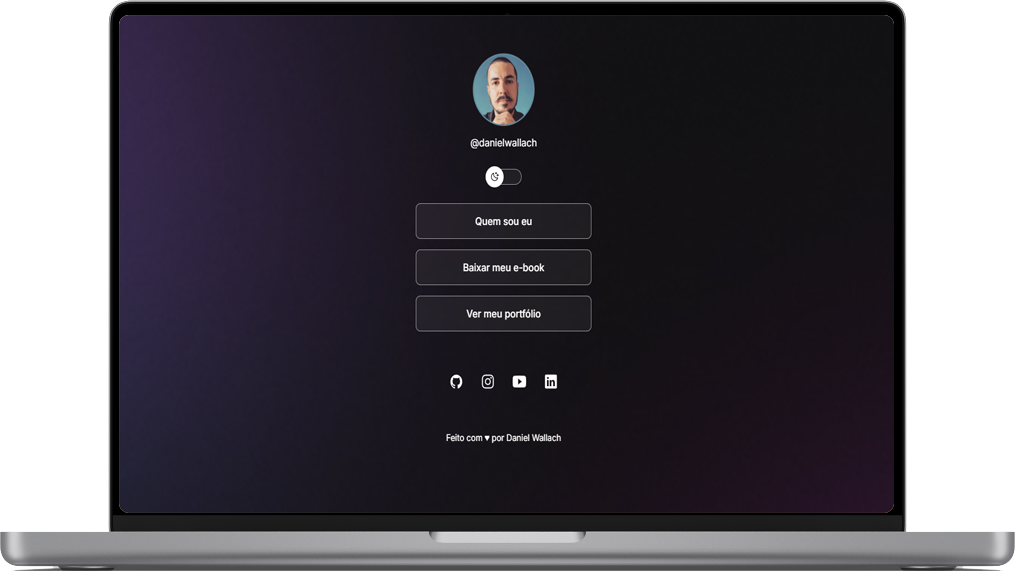
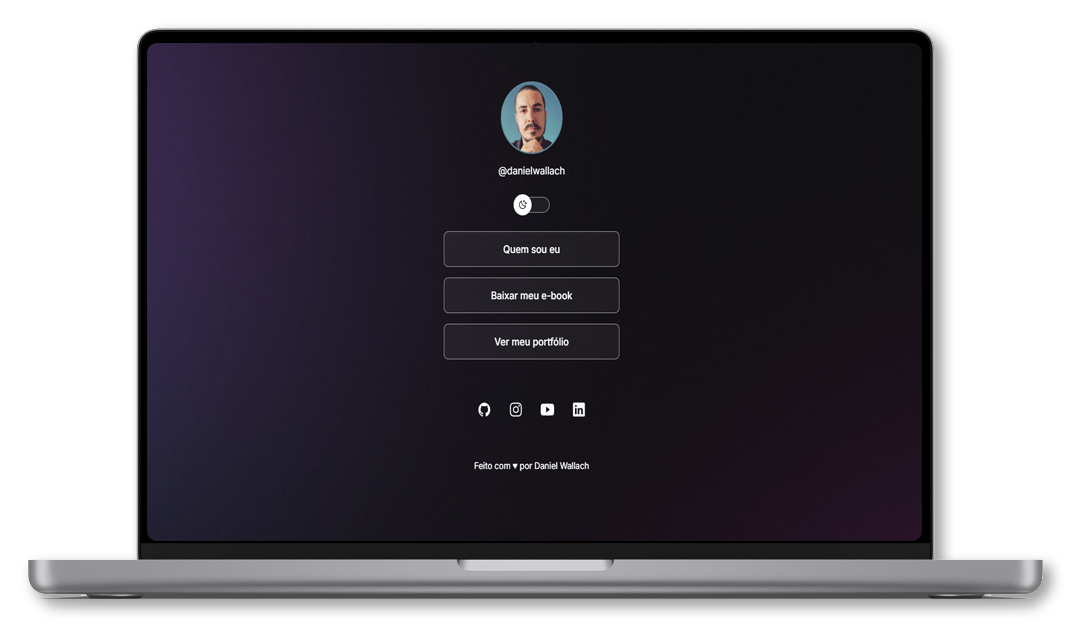
created and stylized the footer with responsive measures and changed picture of about-me section

diff --git a/index.html b/index.html
@@ -22,6 +22,7 @@
     <link rel="stylesheet" href="src/css/sections/about-me.css">
     <link rel="stylesheet" href="src/css/sections/my-projects.css">
     <link rel="stylesheet" href="src/css/sections/skills.css">
+    <link rel="stylesheet" href="src/css/sections/footer.css">
 
     <link rel="stylesheet" href="https://cdn.jsdelivr.net/gh/devicons/devicon@v2.14.0/devicon.min.css">
     
@@ -96,7 +97,7 @@
     <section class="aboutme" id="about-me">
         <div class="container">
             <div class="img-about">
-                <img src="src/images/perfil.jpg" alt="Foto Daniel Wallach quadrada">
+                <img src="src/images/IMG-20240804-WA0057.jpg" alt="Foto Daniel Wallach quadrada">
             </div>
             <div class="text-about">
                 <h2>About Me</h2>
@@ -235,6 +236,27 @@
         </div>
     </section>
 
+    <footer>
+        <div class="container">
+            <h2>My Social Networks</h2>
+            <div class="social-media-footer">
+                <a href="https://www.linkedin.com/in/dannielwallach0/" target="_blank">
+                    <i class="fab fa-linkedin-in"></i>
+                </a>
+                <a href="https://www.instagram.com/danielwallach/" target="_blank">
+                    <i class="fab fa-instagram"></i>
+                </a>
+                <a href="https://api.whatsapp.com/send?phone=5583988035047" target="_blank">
+                    <i class="fab fa-whatsapp"></i>
+                </a>
+                <a href="https://github.com/danielwallach" target="_blank">
+                    <i class="fab fa-github"></i>
+                </a>
+            </div>
+            
+            <p>Developed by <span>Daniel Wallach</span></p>
+        </div>
+    </footer>
 
 </body>
 </html>

diff --git a/src/css/sections/footer.css b/src/css/sections/footer.css
@@ -1,0 +1,64 @@
+footer {
+    height: 180px;
+    background: var(--gradient);
+}
+
+footer .container {
+    display: flex;
+    flex-direction: column;
+    align-items: center;
+    
+    
+}
+
+footer h2 {
+    color: var(--white);
+    font-family: var(--principal-font);
+    font-size: 2.4rem;
+    border-bottom: 5px solid var(--secondary-color);
+    padding-bottom: 10px;
+}
+
+
+footer .social-media-footer a i {
+    font-size: 3rem;
+    color: var(--primary-color);
+    background-color: var(--white);
+    padding: 3px;
+    border-radius: 5px;
+    margin: 0 10px;
+    transition: 0.5s;
+}
+
+footer .social-media-footer i:hover {
+    background-color: var(--primary-color);
+    color: var(--white);
+}
+
+footer p {
+    color: var(--white);
+    font-size: 1rem;
+    font-family: var(--secondary-font);
+    font-weight: 300;
+    margin-top: 20px;
+}
+
+footer p span {
+    color: var(--secondary-color);
+}
+
+@media (max-width:768px) {
+    footer {
+        margin-top: 30px;
+        height: 160px;
+    }
+
+    footer h2 {
+        font-size: 2rem;
+    }
+
+    footer .social-media-footer a i {
+        font-size: 2rem;
+    }
+
+}

diff --git a/src/css/sections/skills.css b/src/css/sections/skills.css
@@ -1,5 +1,5 @@
 .skills {
-    min-height: 100vh;
+    min-height: 65vh;
 }
 
 .skills .container {
@@ -30,7 +30,8 @@
 }
 
 .skills .skills-list .skill-icon i {
-    font-size: 5rem;color: var(--primary-color);
+    font-size: 5rem;
+    color: var(--primary-color);
 }
 
 .skills .skills-list .skill-icon p {
@@ -68,5 +69,9 @@
 @media (max-width: 768px) {
     .skills .skills-list {
         flex-wrap: wrap;
+    }
+
+    .skills .resume h2 {
+        font-size: 2rem;
     }
 }

diff --git a/src/css/sections/about-me.css b/src/css/sections/about-me.css
@@ -8,6 +8,7 @@
 }
 
 .aboutme .img-about img {
+    height: 576px;
     border-radius: 20px;
     box-shadow: 6px 8px 5px rgba(0, 0, 0, 0.5);
 }
